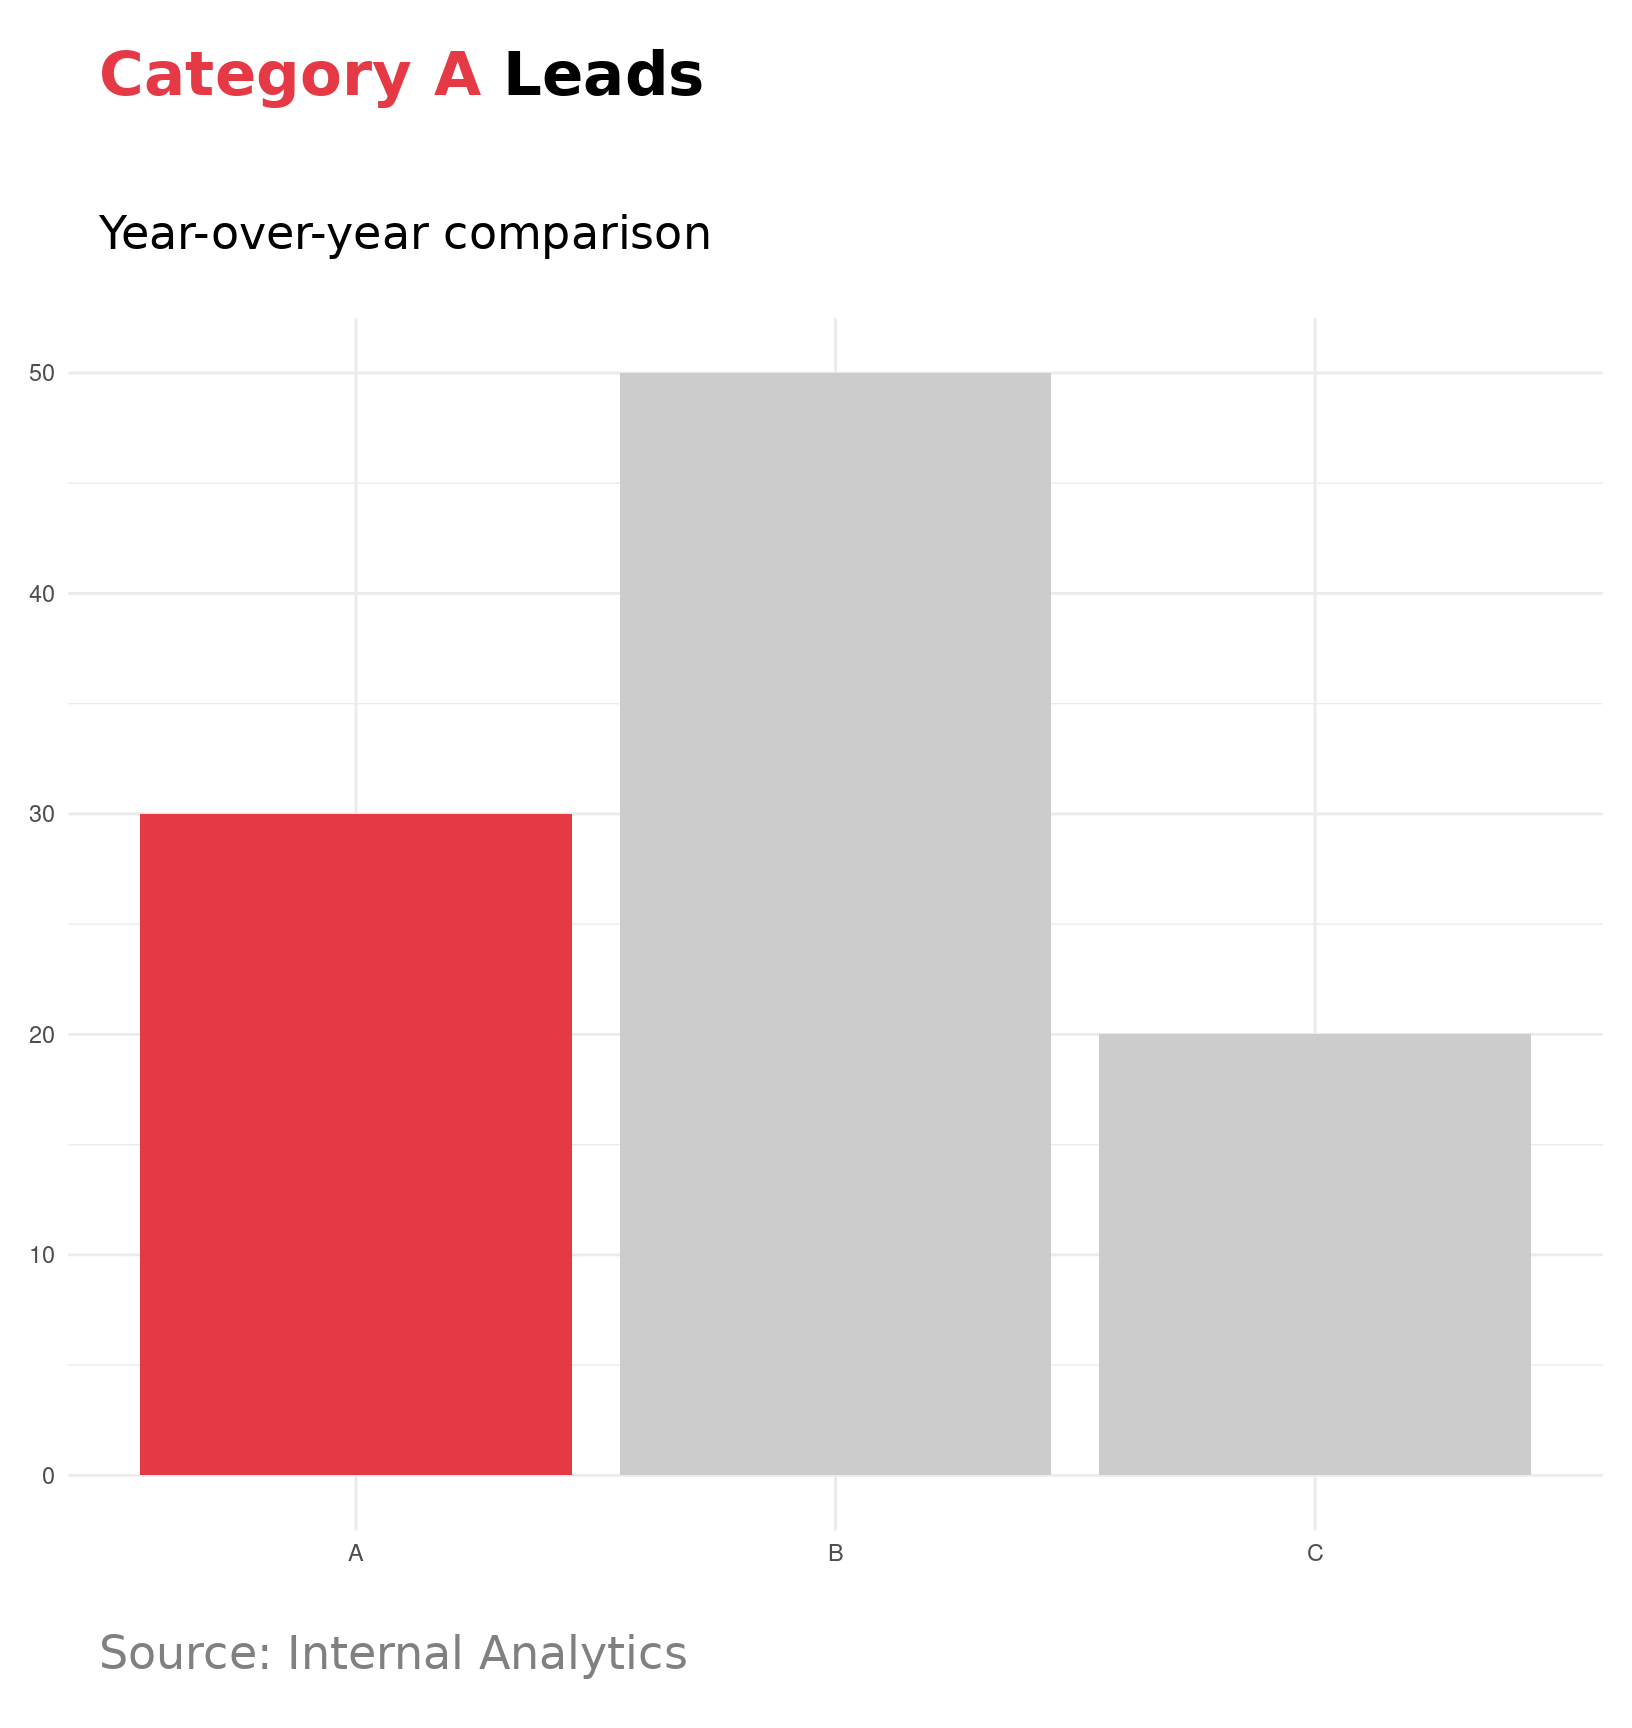
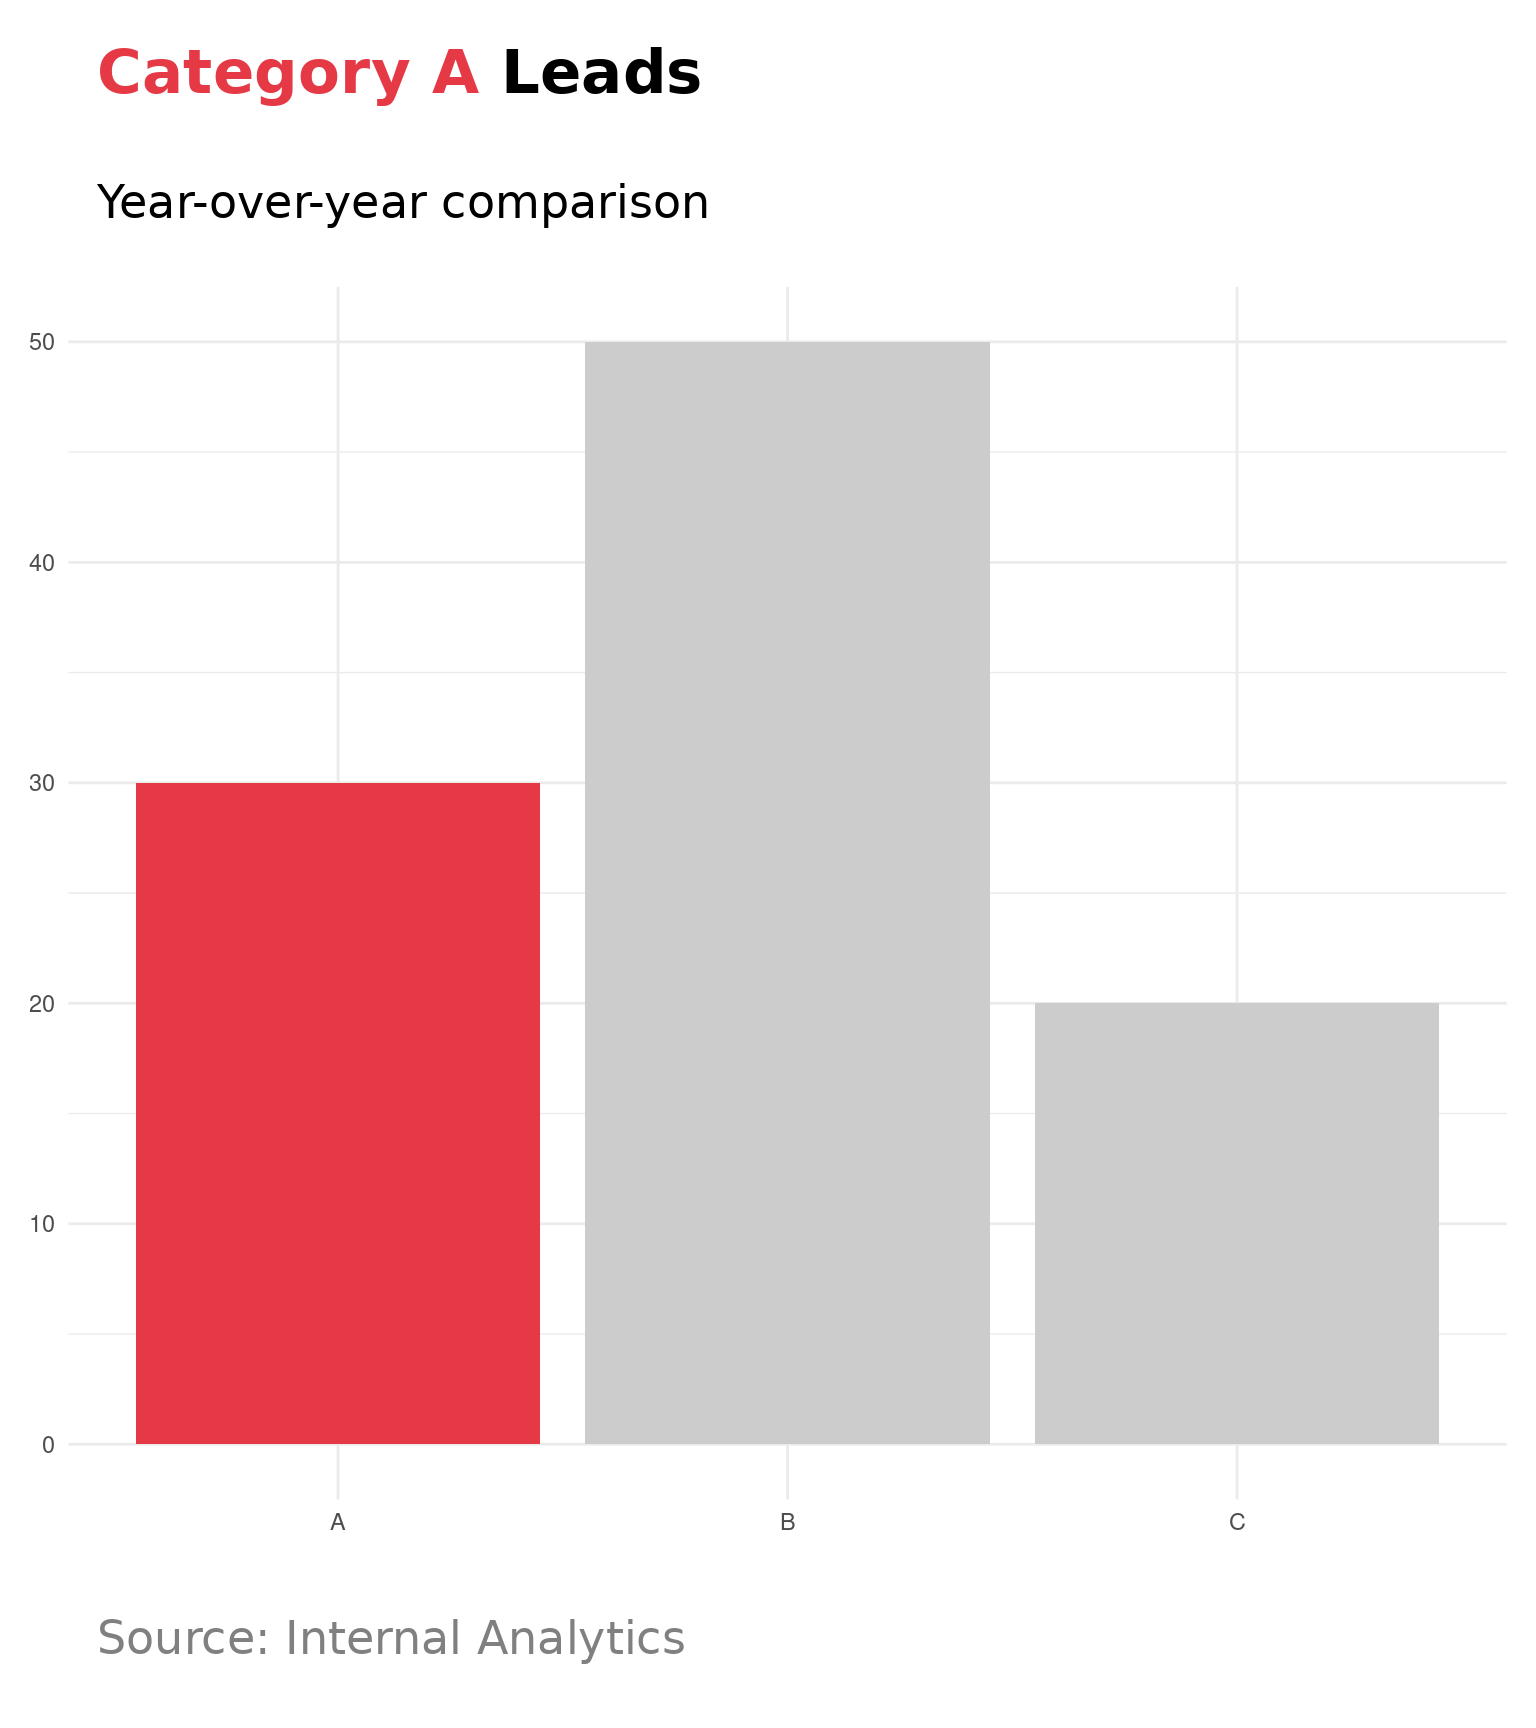
Update storytelling article

diff --git a/docs/vignettes/articles/storytelling.html b/docs/vignettes/articles/storytelling.html
@@ -499,11 +499,11 @@ pre > code.sourceCode > span > a:first-child::before { text-decoration: underlin
 <span id="cb6-11"><a href="#cb6-11" aria-hidden="true" tabindex="-1"></a><span class="fu">subtitle_block</span>(<span class="st">"Year-over-year comparison"</span>,<span class="at">subtitle_size =</span> <span class="dv">6</span>) <span class="sc">/</span></span>
 <span id="cb6-12"><a href="#cb6-12" aria-hidden="true" tabindex="-1"></a>chart <span class="sc">/</span></span>
 <span id="cb6-13"><a href="#cb6-13" aria-hidden="true" tabindex="-1"></a><span class="fu">caption_block</span>(<span class="st">"Source: Internal Analytics"</span>) <span class="sc">+</span></span>
-<span id="cb6-14"><a href="#cb6-14" aria-hidden="true" tabindex="-1"></a>    <span class="fu">plot_layout</span>(<span class="at">heights =</span> <span class="fu">c</span>(<span class="fl">0.10</span>, <span class="fl">0.06</span>, <span class="fl">0.78</span>, <span class="fl">0.06</span>))</span></code></pre></div><button title="Copy to Clipboard" class="code-copy-button"><i class="bi"></i></button></div>
+<span id="cb6-14"><a href="#cb6-14" aria-hidden="true" tabindex="-1"></a>    <span class="fu">plot_layout</span>(<span class="at">heights =</span> <span class="fu">c</span>(<span class="fl">0.08</span>, <span class="fl">0.06</span>, <span class="fl">0.78</span>, <span class="fl">0.08</span>))</span></code></pre></div><button title="Copy to Clipboard" class="code-copy-button"><i class="bi"></i></button></div>
 <div class="cell-output-display">
 <div>
 <figure class="figure">
-<p><img src="storytelling_files/figure-html/combined-example-1.png" class="img-fluid figure-img" width="816"></p>
+<p><img src="storytelling_files/figure-html/combined-example-1.png" class="img-fluid figure-img" width="768"></p>
 </figure>
 </div>
 </div>
